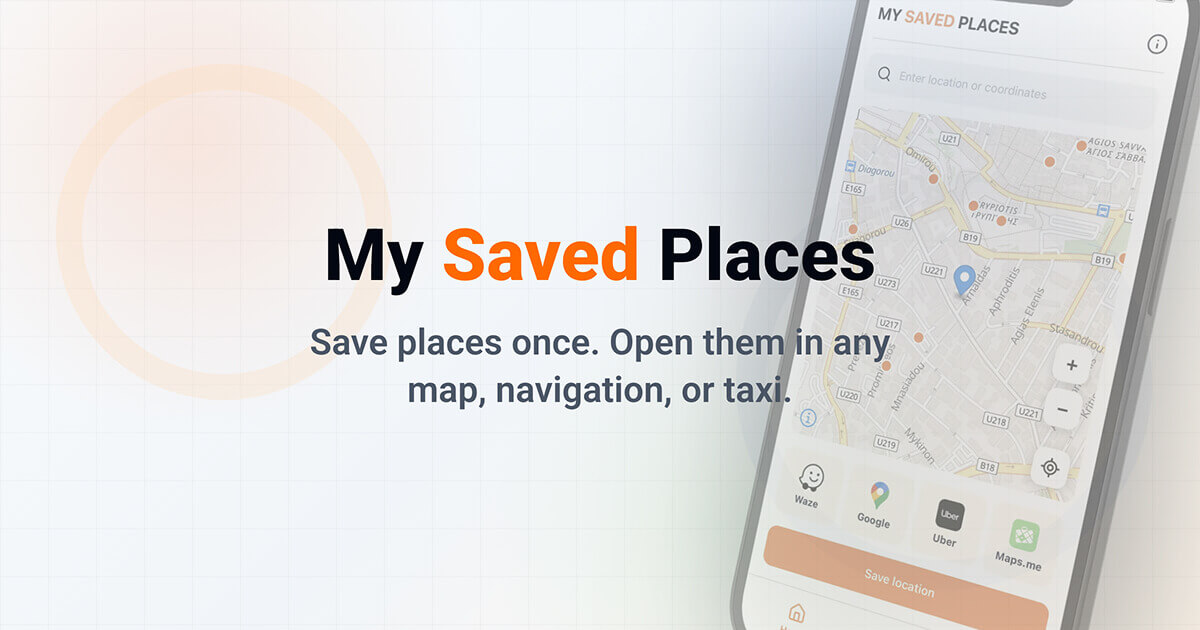
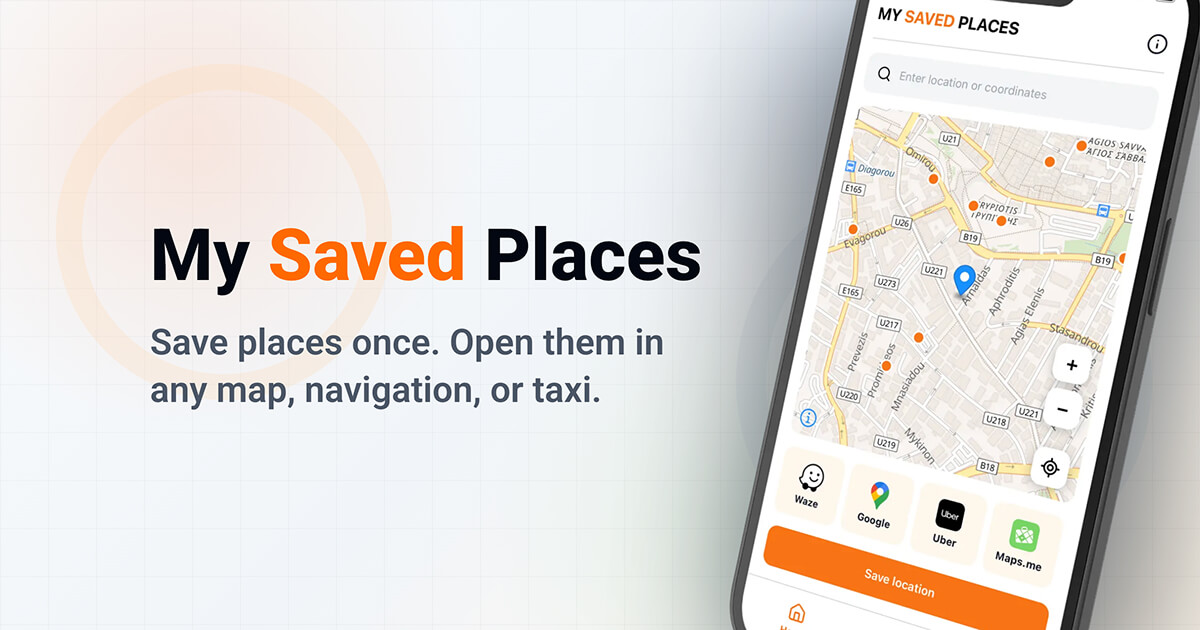
OG Preview

Changed region(s): [[0.1233, 0.0, 1.0, 1.0]]

diff --git a/src/components/features/app-store-previews/app-store-previews.tsx b/src/components/features/app-store-previews/app-store-previews.tsx
@@ -163,12 +163,12 @@ export const OgPreviewArtwork = () => {
         >
             <OgBackground />
 
-            <div className="relative z-10 flex h-full items-center justify-center">
-                <div className="relative z-20 mx-auto w-[760px] text-center">
-                    <h1 className="text-[72px] leading-[1.08] font-extrabold tracking-normal whitespace-nowrap text-gray-950">
+            <div className="relative z-10 flex h-full items-center justify-start">
+                <div className="relative z-20 w-[760px] pl-[100px]">
+                    <h1 className="mb-6 text-[72px] leading-[1.08] font-extrabold tracking-normal whitespace-nowrap text-gray-950">
                         My <span className="text-orange-500">Saved</span> Places
                     </h1>
-                    <p className="mx-auto mt-6 max-w-[620px] text-[36px] leading-[1.32] font-semibold text-gray-600">
+                    <p className="max-w-[620px] text-[36px] leading-[1.32] font-semibold text-gray-600">
                         Save places once. Open them in any map, navigation, or taxi.
                     </p>
                 </div>
@@ -181,7 +181,7 @@ export const OgPreviewArtwork = () => {
                         fill
                         priority
                         sizes="534px"
-                        className="relative object-contain opacity-45 drop-shadow-[0_28px_44px_rgba(4,31,46,0.22)] saturate-75"
+                        className="relative object-contain drop-shadow-[0_28px_44px_rgba(4,31,46,0.22)] saturate-75"
                     />
                 </div>
             </div>
